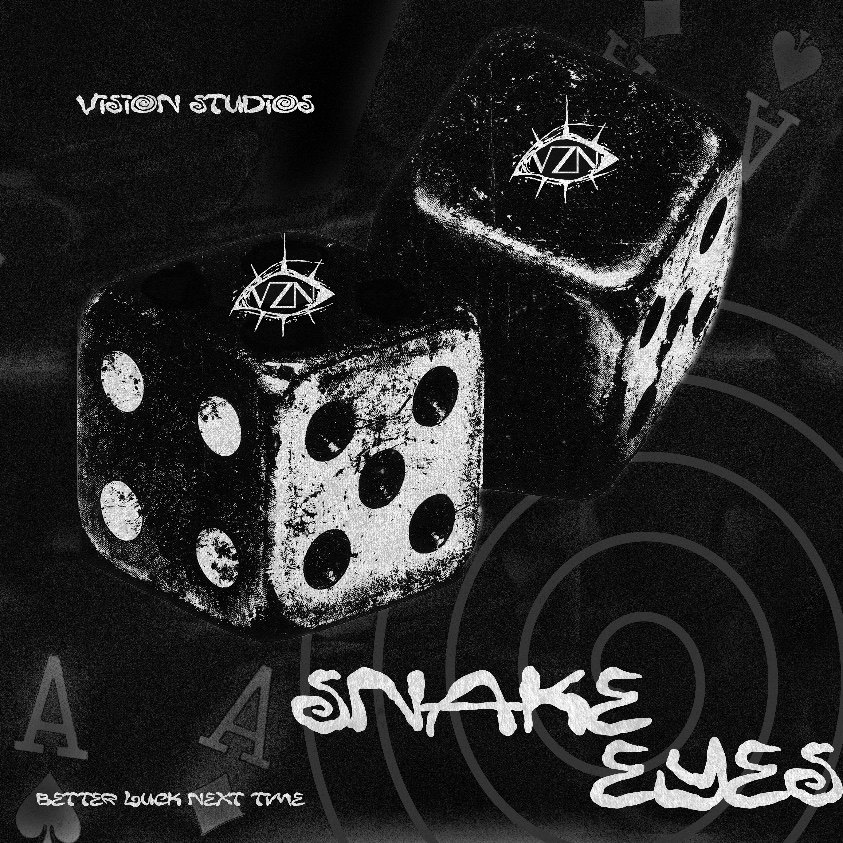
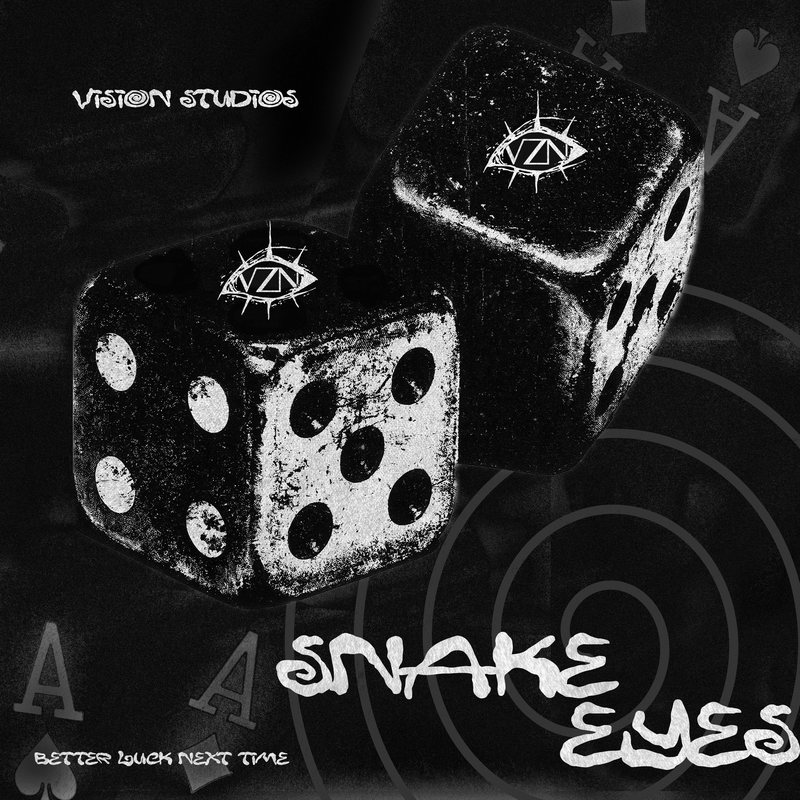
Add Eye Sun poster, full-res Snake Eyes, Beyond Sight hoodie
Move the uploaded files from the repo root into assets/media/originals
with readable names, and make web copies: posters at 800 px (card) and
1600 px (opened view), hoodie front/back at 1000 px, all JPEG without
metadata (20 MB PNGs -> 0.1-0.6 MB).

- Visual: Snake Eyes now from the 4000 px original; new Eye Sun poster.
  The viewer shows an item's "full" image when it has one.
- Shop: the Beyond Sight Hoodie replaces the sample hoodie and leads the
  list; with front and back photos the back shows on hover or via a
  Front/Back button.

Claude-Session: https://claude.ai/code/session_01BuLFswwnjb1CRd63T2kGWX

diff --git a/assets/js/main.js b/assets/js/main.js
@@ -161,9 +161,9 @@
 
   function openViewer(item, kind) {
     var media = buildEmbed(item);
-    if (!media && item.image) {
+    if (!media && (item.full || item.image)) {
       media = document.createElement("img");
-      media.src = item.image;
+      media.src = item.full || item.image;
       media.alt = item.title;
     }
     if (!media && item.cover) {
@@ -449,12 +449,33 @@
   (Array.isArray(window.VZN_SHOP) ? window.VZN_SHOP : []).forEach(function (product) {
     var li = el("li", "product");
     var media = el("div", "product-media");
-    if (product.image) {
-      var img = document.createElement("img");
-      img.src = product.image;
-      img.alt = product.name;
-      img.loading = "lazy";
-      media.appendChild(img);
+    var photos = Array.isArray(product.images) && product.images.length ? product.images
+      : product.image ? [product.image] : [];
+    if (photos.length) {
+      photos.slice(0, 2).forEach(function (src, i) {
+        var img = document.createElement("img");
+        img.src = src;
+        img.alt = product.name + (photos.length > 1 ? (i ? ", back" : ", front") : "");
+        img.loading = "lazy";
+        if (i) img.className = "is-back";
+        media.appendChild(img);
+      });
+      // A second photo is the back: shown on hover, or with the Front / Back button
+      if (photos.length > 1) {
+        media.classList.add("has-back");
+        var flip = el("button", "product-flip", "Back");
+        flip.type = "button";
+        flip.setAttribute("aria-pressed", "false");
+        flip.setAttribute("aria-label", "Show the back of the " + product.name);
+        flip.addEventListener("click", function () {
+          var showBack = !media.classList.contains("show-back");
+          media.classList.toggle("show-back", showBack);
+          flip.textContent = showBack ? "Front" : "Back";
+          flip.setAttribute("aria-pressed", String(showBack));
+          flip.setAttribute("aria-label", "Show the " + (showBack ? "front" : "back") + " of the " + product.name);
+        });
+        media.appendChild(flip);
+      }
     } else {
       media.appendChild(mockup(product.mockup));
     }

diff --git a/data/shop.js b/data/shop.js
@@ -12,15 +12,23 @@
     type     Short label, e.g. "T-shirt", "Hoodie", "Print".
     price    Shown as written, e.g. "$35" (leave empty until it's set).
     sizes    List of sizes or options shown on the card (optional).
-    image    Product photo, e.g. "assets/media/shop/tee.jpg" (optional — a mockup
-             is drawn until you add one).
+    images   Product photos: [front] or [front, back], e.g.
+               ["assets/media/shop/hoodie-front.jpg", "assets/media/shop/hoodie-back.jpg"]
+             With a back photo, it shows on hover and with a Front / Back button.
+             (optional — a mockup is drawn until you add photos).
+             Square photos about 1000 px wide work best.
     mockup   Which mockup to draw without a photo: "tee", "hoodie" or "poster".
     url      Checkout link. Without one the button says "Coming soon".
 
-  The entries below are placeholders — replace them with real products.
+  The tee and poster below are still samples (drawn mockups); replace them with
+  real products when they're ready.
 */
 window.VZN_SHOP = [
+  {
+    name: "Beyond Sight Hoodie", type: "Hoodie", price: "",
+    images: ["assets/media/shop/beyond-sight-hoodie-front.jpg", "assets/media/shop/beyond-sight-hoodie-back.jpg"],
+    url: ""
+  },
   { name: "Eye Logo Tee", type: "T-shirt", price: "", sizes: ["S", "M", "L", "XL"], image: "", mockup: "tee", url: "" },
-  { name: "Eye Logo Hoodie", type: "Hoodie", price: "", sizes: ["S", "M", "L", "XL"], image: "", mockup: "hoodie", url: "" },
   { name: "Vision Poster", type: "Print · 18 × 24 in", price: "", sizes: [], image: "", mockup: "poster", url: "" }
 ];

diff --git a/assets/css/styles.css b/assets/css/styles.css
@@ -508,6 +508,29 @@ em { font-style: italic; }
 .products { display: grid; grid-template-columns: repeat(auto-fit, minmax(min(100%, 300px), 420px)); gap: clamp(20px, 3vw, 40px); }
 .product-media { position: relative; aspect-ratio: 1; background: var(--surface); overflow: hidden; }
 .product-media > img { width: 100%; height: 100%; object-fit: cover; }
+/* Front / back photos: the back fades in on hover (mouse) or with the button */
+.product-media > img.is-back { position: absolute; inset: 0; opacity: 0; transition: opacity .45s var(--ease); }
+.product-media.show-back > img.is-back { opacity: 1; }
+@media (hover: hover) and (pointer: fine) {
+  .product-media.has-back:hover:not(.show-back) > img.is-back { opacity: 1; }
+}
+.product-flip {
+  position: absolute;
+  left: 12px;
+  bottom: 12px;
+  padding: 6px 14px;
+  border: 1px solid rgba(10, 10, 10, .35);
+  border-radius: 999px;
+  background: rgba(255, 255, 255, .8);
+  color: #0a0a0a;
+  font: inherit;
+  font-size: 0.8em;
+  text-transform: uppercase;
+  letter-spacing: 0.06em;
+  cursor: pointer;
+  backdrop-filter: blur(6px);
+}
+.product-flip:hover { background: #0a0a0a; color: #fff; border-color: #0a0a0a; }
 .mockup { position: absolute; inset: 0; display: grid; place-items: center; }
 .mockup svg { width: 78%; height: 78%; }
 .mockup svg path { fill: #1d1d1c; stroke: #3a3a38; stroke-width: 1; }

diff --git a/data/portfolio.js b/data/portfolio.js
@@ -28,7 +28,9 @@
     type      Group label, e.g. "Poster", "Cover Art", "Music Video".
     client    Artist / client (optional).
     year      Year as text (optional).
-    image     The artwork, e.g. "assets/media/visual/cover.jpg".
+    image     The artwork on the card, about 800 px wide, e.g. "assets/media/visual/cover.jpg".
+    full      A larger version (about 1600 px) shown when the piece is opened (optional).
+              Keep full-size originals in assets/media/originals; they aren't loaded.
     ratio     Its proportions, e.g. "1 / 1" or "4 / 5" (optional; square is assumed
               until the image loads, so filling it in avoids a small jump).
     media     Optional video shown when the piece is opened:
@@ -77,8 +79,14 @@ window.VZN_PORTFOLIO = {
 
   visual: [
     {
-      title: "Snake Eyes", type: "Poster", image: "assets/media/visual/snake-eyes.jpg", ratio: "1 / 1",
+      title: "Snake Eyes", type: "Poster", ratio: "1 / 1",
+      image: "assets/media/visual/snake-eyes.jpg", full: "assets/media/visual/snake-eyes-large.jpg",
       description: "Better luck next time."
+    },
+    {
+      title: "Eye Sun", type: "Poster", ratio: "1 / 1",
+      image: "assets/media/visual/eye-sun.jpg", full: "assets/media/visual/eye-sun-large.jpg",
+      description: "Stared at the sun so long it started staring back."
     }
   ]
 };

diff --git a/README.md b/README.md
@@ -29,7 +29,10 @@ assets/js/main.js       Work rails and audio player, viewer, shop, nav, contact 
 assets/brand/           Logo (traced SVG, white/black), favicon, social share image
 assets/brand/source/    Original logo file
 assets/fonts/           Self-hosted web fonts (Coldag Serif Bold, Italic, Outline)
-assets/media/           Your project images, audio and video files
+assets/media/audio/     Beats as 320 kbps MP3
+assets/media/visual/    Artwork for the site: ~800 px card image + ~1600 px "-large" version
+assets/media/shop/      Product photos (~1000 px square)
+assets/media/originals/ Full-size originals (kept for reference; the site never loads them)
 ```
 
 ## Adding work
@@ -46,6 +49,10 @@ reference at the top.
 Items with the same `type` next to each other are grouped under one label. Items
 without an image get a generated placeholder.
 
+Images: keep the full-size original in `assets/media/originals/` and add web-sized
+copies (about 800 px for the card, 1600 px for `full`); a 4000 px PNG is ~20 MB, the
+two JPGs together well under 1 MB.
+
 Audio: convert masters to 320 kbps MP3 for the site (browsers can't rely on 24-bit
 WAV, and MP3s are ~8x smaller), e.g.
 `ffmpeg -i beat_master.wav -map_metadata -1 -c:a libmp3lame -b:a 320k assets/media/audio/beat.mp3`.
@@ -54,7 +61,8 @@ whoever maintains the site, or leave it out for a generated waveform.
 
 ## Shop
 
-Open `data/shop.js`: name, type, price, sizes, a photo and a checkout link per product.
+Open `data/shop.js`: name, type, price, sizes, photos and a checkout link per product.
+Give two photos (front, back) and the back shows on hover or with a Front / Back button.
 The site can't take payments itself, so each **Buy** button opens your store's checkout
 page (for example a Stripe Payment Link, or a Shopify, Big Cartel or Fourthwall product
 page) in a new tab. Products without a link show "Coming soon".
